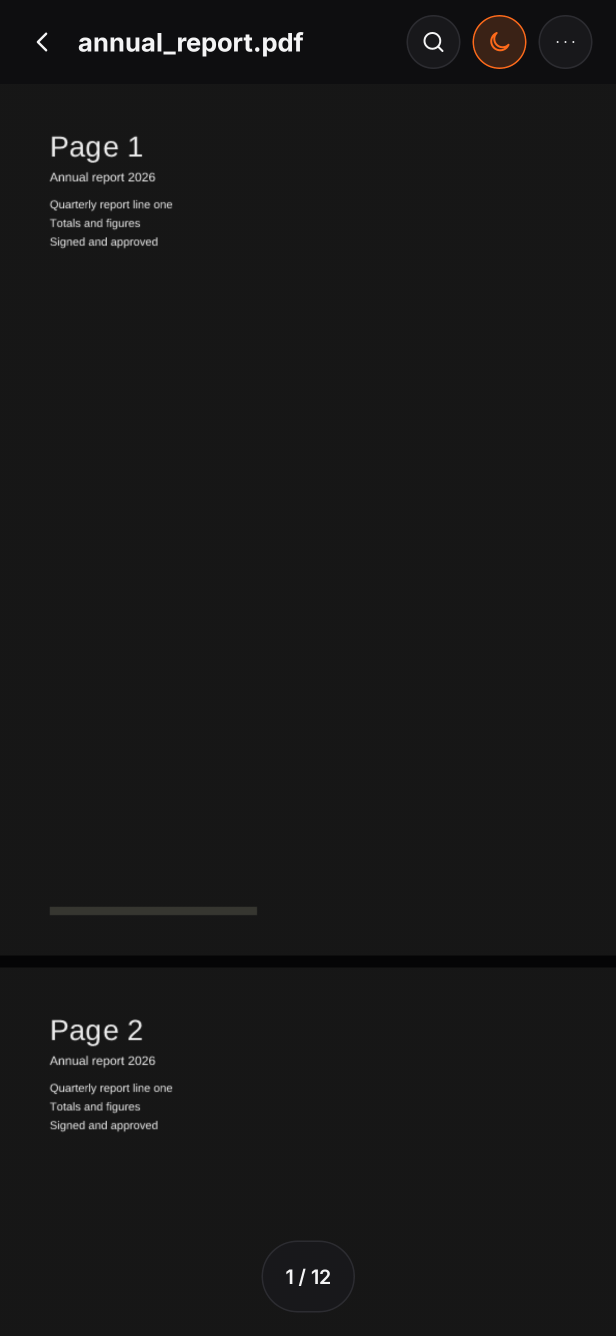
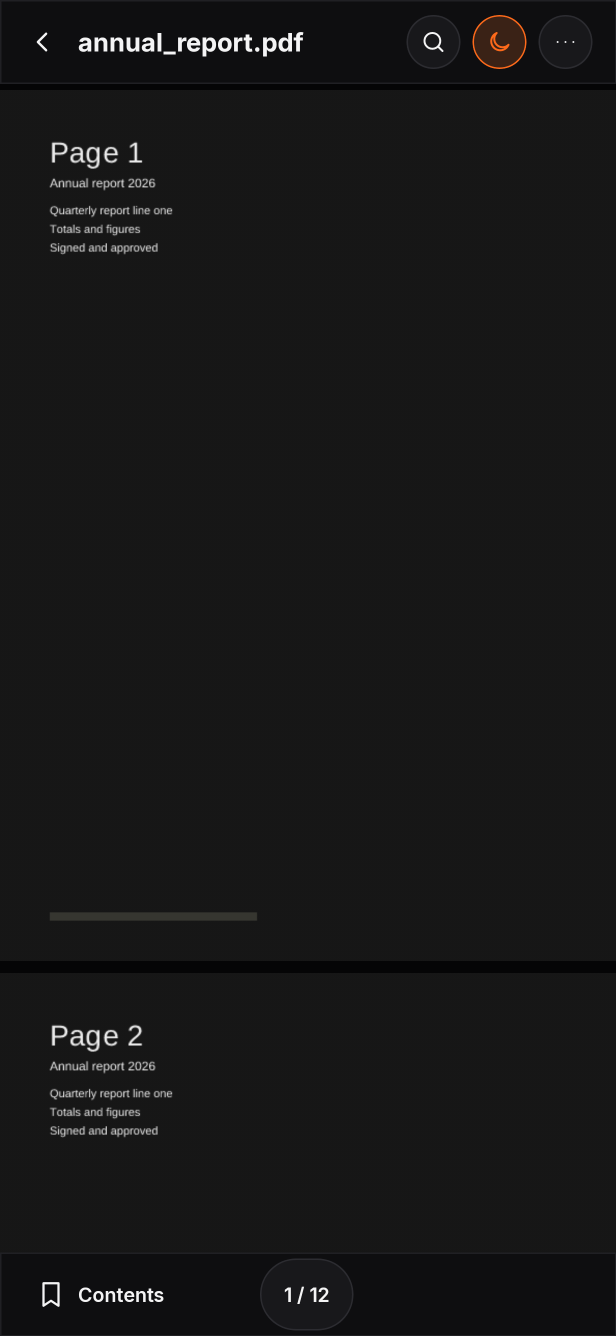
Viewer: top gutter, screenshots, tests for zoom/links, docs, tick roadmap 1B
Claude-Session: https://claude.ai/code/session_01QtjDEfUSeiytvFedJK5fax

diff --git a/app/src/test/java/com/namanbansal/forge/screenshots/ViewerScreenshotTest.kt b/app/src/test/java/com/namanbansal/forge/screenshots/ViewerScreenshotTest.kt
@@ -1,0 +1,159 @@
+package com.namanbansal.forge.screenshots
+
+import android.app.Application
+import android.net.Uri
+import androidx.compose.foundation.background
+import androidx.compose.foundation.border
+import androidx.compose.foundation.layout.Column
+import androidx.compose.foundation.layout.fillMaxWidth
+import androidx.compose.foundation.layout.padding
+import androidx.compose.foundation.layout.width
+import androidx.compose.ui.Modifier
+import androidx.compose.ui.test.junit4.createComposeRule
+import androidx.compose.ui.test.onNodeWithContentDescription
+import androidx.compose.ui.test.performClick
+import androidx.compose.ui.unit.dp
+import androidx.lifecycle.SavedStateHandle
+import androidx.test.core.app.ApplicationProvider
+import com.namanbansal.forge.core.DefaultViewer
+import com.namanbansal.forge.core.PdfBoxRasterizer
+import com.namanbansal.forge.core.PdfFixtures
+import com.namanbansal.forge.core.PickedFile
+import com.namanbansal.forge.core.pdf.PdfIntake
+import com.namanbansal.forge.core.pdf.viewer.OutlineItem
+import com.namanbansal.forge.core.pdf.viewer.TextSelection
+import com.namanbansal.forge.core.pdf.viewer.ViewerPosition
+import com.namanbansal.forge.data.ViewerPrefs
+import com.namanbansal.forge.tools.ToolHost
+import com.namanbansal.forge.tools.ToolRegistry
+import com.namanbansal.forge.tools.pdf.OutlinePanel
+import com.namanbansal.forge.tools.pdf.OutlineSheet
+import com.namanbansal.forge.tools.pdf.ViewerHome
+import com.namanbansal.forge.tools.pdf.ViewerMenuItems
+import com.namanbansal.forge.tools.pdf.ViewerScreen
+import com.namanbansal.forge.tools.pdf.ViewerViewModel
+import com.namanbansal.forge.ui.components.GroupLabel
+import com.namanbansal.forge.ui.screens.PdfViewerSettings
+import com.namanbansal.forge.ui.theme.ForgeTheme
+import com.tom_roush.pdfbox.android.PDFBoxResourceLoader
+import kotlinx.coroutines.runBlocking
+import org.junit.After
+import org.junit.Before
+import org.junit.Rule
+import org.junit.Test
+import org.junit.rules.TemporaryFolder
+import org.junit.runner.RunWith
+import org.robolectric.RobolectricTestRunner
+import org.robolectric.annotation.Config
+import org.robolectric.annotation.GraphicsMode
+import java.io.File
+
+@RunWith(RobolectricTestRunner::class)
+@GraphicsMode(GraphicsMode.Mode.NATIVE)
+@Config(qualifiers = PHONE_QUALIFIERS)
+class ViewerScreenshotTest {
+    @get:Rule val compose = createComposeRule()
+    @get:Rule val tmp = TemporaryFolder()
+    private val app: Application get() = ApplicationProvider.getApplicationContext()
+
+    @Before fun init() { PDFBoxResourceLoader.init(app); PdfBoxRasterizer.install() }
+    @After fun done() { PdfBoxRasterizer.uninstall() }
+
+    private fun host() = ToolHost(ToolRegistry.get("P40")!!, onBack = {})
+
+    private val lorem = listOf(
+        "Revenue grew 14 percent year on year, driven by subscriptions.",
+        "Operating costs were flat, which lifted margin to 21 percent.",
+        "The board approved the plan for the second half of the year.",
+        "See https://nbansal28.com for the full figures and notes.",
+    )
+
+    private fun reader(): ViewerViewModel {
+        val vm = ViewerViewModel(app, SavedStateHandle())
+        val f = PdfFixtures.withText(File(tmp.root, "annual_report.pdf"), 12, title = "Annual report 2026", body = { lorem }, uniqueHeights = false)
+        vm.onFilesPicked(listOf(PickedFile(Uri.fromFile(f), "annual_report.pdf", 5_100_000, "application/pdf")))
+        compose.pumpUntil { vm.source.value != null && vm.thumbnails.value != null && vm.aspects.value != null && vm.restored.value }
+        return vm
+    }
+
+    private val NOW = 1_765_000_000_000L
+    private val settle = { Thread.sleep(500); compose.waitForIdle() }
+
+    @Test fun home() {
+        val covers = File(tmp.root, "covers").apply { mkdirs() }
+        val names = listOf("Annual report 2026.pdf", "Lease agreement.pdf", "Boarding pass.pdf", "Thesis draft v3.pdf")
+        val recents = names.mapIndexed { i, n ->
+            val f = PdfFixtures.withText(File(tmp.root, "r$i.pdf"), 3, title = n.removeSuffix(".pdf"), uniqueHeights = false)
+            val bmp = runBlocking { PdfIntake.cover(f) }
+            File(covers, "k$i.jpg").outputStream().use { bmp!!.compress(android.graphics.Bitmap.CompressFormat.JPEG, 80, it) }
+            ViewerPosition("k$i", "content://x/$i", n, 1_000_000, listOf(12, 4, 1, 86)[i], listOf(3, 0, 0, 41)[i], 1f, NOW - i * listOf(3_600_000L, 86_400_000L, 3L * 86_400_000, 14L * 86_400_000)[i])
+        }
+        compose.shootBoth("viewer-home", settle = settle) {
+            ViewerHome("Viewer", recents, false, null, { File(covers, "${it.key}.jpg") }, {}, {}, {}, {}, {}, {}, now = NOW + 60_000)
+        }
+    }
+
+    @Test fun reading() {
+        val vm = reader()
+        compose.shootBoth("viewer-reading", settle = settle) { ViewerScreen(host(), vm) }
+    }
+
+    @Test fun immersive() {
+        val vm = reader()
+        compose.setThemed(false) { ViewerScreen(host(), vm) }
+        compose.waitForIdle()
+        compose.onNodeWithContentDescription("Page 1").performClick() // a tap on the page hides the bars
+        compose.mainClock.advanceTimeBy(900)
+        settle()
+        compose.captureShot("viewer-immersive-light")
+    }
+
+    @Test fun immersiveDark() {
+        val vm = reader()
+        compose.setThemed(true) { ViewerScreen(host(), vm) }
+        compose.waitForIdle()
+        compose.onNodeWithContentDescription("Page 1").performClick()
+        compose.mainClock.advanceTimeBy(900)
+        settle()
+        compose.captureShot("viewer-immersive-dark")
+    }
+
+    @Test fun selection() {
+        val vm = reader()
+        val t = runBlocking { vm.pageText(0)!! }
+        val i = t.text.indexOf("subscriptions")
+        val s = t.text.indexOf("Revenue")
+        vm.setSelection(TextSelection(0, s, i + "subscriptions".length - 1))
+        compose.pumpUntil { vm.selection.value != null }
+        compose.shootBoth("viewer-selection", settle = { Thread.sleep(700); compose.waitForIdle() }) { ViewerScreen(host(), vm) }
+    }
+
+    private val outline = listOf(
+        OutlineItem("Summary", 0, emptyList()),
+        OutlineItem("1. Results", 2, listOf(OutlineItem("1.1 Revenue", 2, emptyList()), OutlineItem("1.2 Margin", 3, emptyList()))),
+        OutlineItem("2. Outlook", 6, emptyList()),
+        OutlineItem("Appendix", 9, emptyList()),
+    )
+
+    @Test fun outlineLight() = outlineShot(false)
+    @Test fun outlineDark() = outlineShot(true)
+    private fun outlineShot(dark: Boolean) {
+        compose.shootDialog("viewer-outline", dark) { OutlineSheet({}) { OutlinePanel(outline, null, 12, 2, {}) } }
+    }
+
+    @Test fun settingsMenu() {
+        compose.shootBoth("viewer-settings-menu", settle = settle) {
+            Column(Modifier.padding(16.dp).width(300.dp).background(ForgeTheme.colors.surface).border(1.dp, ForgeTheme.colors.border)) {
+                ViewerMenuItems(ViewerPrefs(), {}, {})
+            }
+        }
+    }
+
+    @Test fun defaultViewerOther() = compose.shootBoth("settings-default-viewer-other", settle = settle) {
+        Column(Modifier.padding(16.dp)) { GroupLabel("PDF viewer"); PdfViewerSettings(DefaultViewer.Other("Drive PDF Viewer", "com.google.pdf"), true, {}, {}, {}) }
+    }
+
+    @Test fun defaultViewerForge() = compose.shootBoth("settings-default-viewer-forge", settle = settle) {
+        Column(Modifier.padding(16.dp)) { GroupLabel("PDF viewer"); PdfViewerSettings(DefaultViewer.Forge, true, {}, {}, {}) }
+    }
+}

diff --git a/app/src/test/java/com/namanbansal/forge/ui/ViewerRound1bTest.kt b/app/src/test/java/com/namanbansal/forge/ui/ViewerRound1bTest.kt
@@ -9,7 +9,10 @@ import androidx.compose.ui.test.hasText
 import androidx.compose.ui.test.junit4.createComposeRule
 import androidx.compose.ui.test.onNodeWithContentDescription
 import androidx.compose.ui.test.onNodeWithText
+import androidx.compose.ui.test.click
+import androidx.compose.ui.test.doubleClick
 import androidx.compose.ui.test.performClick
+import androidx.compose.ui.test.performTouchInput
 import androidx.lifecycle.SavedStateHandle
 import androidx.test.core.app.ApplicationProvider
 import com.namanbansal.forge.ForgeApp
@@ -183,6 +186,44 @@ class ViewerRound1bTest {
         pump { runCatching { compose.onNodeWithText("Pages").assertExists() }.isSuccess }
         compose.onNodeWithText("Bookmarks").performClick()
         pump { runCatching { compose.onNodeWithText("No bookmarks in this PDF").assertExists() }.isSuccess }
+    }
+
+    @Test fun doubleTapZoomsAndRendersSharpTiles() {
+        val vm = openViewer(3)
+        val tiles = vm.tiles.value!!
+        compose.onNodeWithContentDescription("Page 1").performTouchInput { doubleClick(center) }
+        pump { tiles.rendered > 0 }
+        assertTrue(tiles.cachedBytes() > 0)
+        assertEquals(2.5f, vm.zoom.value, 0.001f)
+        compose.onNodeWithContentDescription("Page 1").performTouchInput { doubleClick(center) } // and back to fit width
+        pump { vm.zoom.value == 1f }
+    }
+
+    @Test fun tappingAnExternalLinkAsksBeforeOpening() {
+        val f = File(tmp.root, "links.pdf")
+        com.tom_roush.pdfbox.pdmodel.PDDocument().use { d ->
+            d.addPage(com.tom_roush.pdfbox.pdmodel.PDPage(com.tom_roush.pdfbox.pdmodel.common.PDRectangle.A4))
+            val l = com.tom_roush.pdfbox.pdmodel.interactive.annotation.PDAnnotationLink().apply {
+                rectangle = com.tom_roush.pdfbox.pdmodel.common.PDRectangle(100f, 700f, 100f, 20f)
+                action = com.tom_roush.pdfbox.pdmodel.interactive.action.PDActionURI().apply { uri = "https://example.com/forge" }
+            }
+            d.getPage(0).annotations = listOf(l); d.save(f)
+        }
+        val vm = ViewerViewModel(app, SavedStateHandle())
+        compose.setContent { ForgeTheme { ViewerScreen(host(), vm) } }
+        vm.onFilesPicked(listOf(PickedFile(Uri.fromFile(f), "links.pdf", f.length(), "application/pdf")))
+        pump { vm.source.value != null && vm.restored.value && vm.aspects.value != null }
+        val found = runBlocking { vm.pageLinks(0) }
+        assertEquals("links: $found", 1, found.size)
+        compose.waitForIdle(); Thread.sleep(300); compose.waitForIdle()
+        // A4 at 1233 px wide: 2.07 px per point; the link centre is (150, 132 from the top) pt, below a 60 dp (180 px) gutter.
+        compose.onNodeWithContentDescription("Page 1").performTouchInput { click(androidx.compose.ui.geometry.Offset(150f * 2.07f, 132f * 2.07f)) }
+        compose.mainClock.advanceTimeBy(600) // a single tap is confirmed only after the double-tap window
+        compose.waitForIdle()
+        assertNotNull("flash after tap", vm.flash.value)
+        pump { runCatching { compose.onNodeWithText("Open this link?").assertExists() }.isSuccess }
+        compose.onNodeWithText("https://example.com/forge").assertExists()
+        compose.onNodeWithText("Cancel").performClick()
     }
 
     // ---- outline panel -----------------------------------------------------------------------------------------------

diff --git a/app/src/main/java/com/namanbansal/forge/core/pdf/viewer/SlotLayout.kt b/app/src/main/java/com/namanbansal/forge/core/pdf/viewer/SlotLayout.kt
@@ -19,9 +19,9 @@ object SlotLayout {
     /**
      * Sizes the pages of one slot. [viewportW]/[viewportH] are the unzoomed viewport; the content is [zoom] times wider.
      * Fit-width makes a single page as wide as the viewport (a spread splits the width); fit-page also keeps it within the
-     * viewport height. Pages are centred in the slot; the slot is at least [minHeight] tall (paged mode centres vertically).
+     * viewport height. [topInset] adds empty space above the pages (room for the top bar above the first page). Pages are centred in the slot; the slot is at least [minHeight] tall (paged mode centres vertically).
      */
-    fun compute(pages: IntRange, aspects: FloatArray?, viewportW: Int, viewportH: Int, zoom: Float, fitPage: Boolean, minHeight: Int = 0): SlotGeometry {
+    fun compute(pages: IntRange, aspects: FloatArray?, viewportW: Int, viewportH: Int, zoom: Float, fitPage: Boolean, minHeight: Int = 0, topInset: Int = 0): SlotGeometry {
         val n = pages.last - pages.first + 1
         val cell = viewportW.toFloat() / n
         val widths = pages.map { p ->
@@ -30,11 +30,11 @@ object SlotLayout {
             (base * zoom).toInt().coerceAtLeast(1)
         }
         val heights = pages.mapIndexed { i, p -> (widths[i] / (aspects?.getOrNull(p) ?: 0.707f).coerceAtLeast(0.05f)).toInt().coerceAtLeast(1) }
-        val slotH = maxOf(heights.max(), minHeight)
+        val slotH = maxOf(heights.max(), minHeight) + topInset
         val slotW = (viewportW * zoom).toInt()
         var x = ((slotW - widths.sum()) / 2).coerceAtLeast(0)
         val boxes = pages.mapIndexed { i, p ->
-            PageBox(p, x, (slotH - heights[i]) / 2, widths[i], heights[i]).also { x += widths[i] }
+            PageBox(p, x, topInset + (slotH - topInset - heights[i]) / 2, widths[i], heights[i]).also { x += widths[i] }
         }
         return SlotGeometry(slotH, boxes)
     }

diff --git a/app/src/main/java/com/namanbansal/forge/tools/pdf/ViewerPages.kt b/app/src/main/java/com/namanbansal/forge/tools/pdf/ViewerPages.kt
@@ -97,6 +97,7 @@ import kotlinx.coroutines.withTimeoutOrNull
 import kotlin.math.roundToInt
 
 const val MAX_ZOOM = 8f
+private val TOP_BAR_GUTTER = 60.dp
 private const val DOUBLE_TAP_ZOOM = 2.5f
 
 /** "Go to this page" asked by the chrome (page jump, outline, search hit); [nonce] makes repeated jumps to one page count. */
@@ -165,8 +166,10 @@ private fun PagesInner(
     val linkCache = remember { HashMap<Int, List<PageLink>>() }
 
     val aspectsRef = rememberUpdatedState(aspects)
+    // The first page of a continuous document starts below the top bar, so its first lines are readable with the bars shown.
+    val topInsetPx = with(density) { TOP_BAR_GUTTER.roundToPx() }
     fun geo(slot: Int, z: Float): SlotGeometry =
-        SlotLayout.compute(slots[slot], aspectsRef.value, vw, vh, z, fitPage, minHeight = if (paged) vh else 0)
+        SlotLayout.compute(slots[slot], aspectsRef.value, vw, vh, z, fitPage, minHeight = if (paged) vh else 0, topInset = if (!paged && slot == 0) topInsetPx else 0)
 
     // ---- current page, scrolling activity, jumps ------------------------------------------------------------------
     val currentSlot by remember {

diff --git a/app/src/main/java/com/namanbansal/forge/tools/pdf/ViewerScreen.kt b/app/src/main/java/com/namanbansal/forge/tools/pdf/ViewerScreen.kt
@@ -327,6 +327,7 @@ fun ViewerMenuItems(prefs: ViewerPrefs, onPrefs: ((ViewerPrefs) -> ViewerPrefs) 
     Text("Fit", style = ForgeType.Tiny, color = c.text2, modifier = Modifier.padding(horizontal = 16.dp, vertical = 6.dp))
     Choice("Fit width", !prefs.fitPage && !prefs.pageByPage) { it.copy(fitPage = false) }
     Choice("Fit page", prefs.fitPage || prefs.pageByPage) { it.copy(fitPage = true) }
+    Text("Reading", style = ForgeType.Tiny, color = c.text2, modifier = Modifier.padding(horizontal = 16.dp, vertical = 6.dp))
     Choice("Two pages side by side (landscape)", prefs.twoPageLandscape) { it.copy(twoPageLandscape = !it.twoPageLandscape) }
     Choice("Keep screen on", prefs.keepScreenOn) { it.copy(keepScreenOn = !it.keepScreenOn) }
     HorizontalDivider(color = c.border)

diff --git a/app/src/main/java/com/namanbansal/forge/tools/pdf/ViewerHome.kt b/app/src/main/java/com/namanbansal/forge/tools/pdf/ViewerHome.kt
@@ -96,7 +96,7 @@ fun ViewerHome(
                     Text("Report copies technical details (no file contents) so you can paste them in a message.", style = ForgeType.Tiny, color = c.text2)
                 }
             }
-            item("open") { ForgeButton("Open PDF", onOpenPdf, Modifier.fillMaxWidth(), icon = ForgeIcons.Open) }
+            item("open") { ForgeButton("Open PDF", onOpenPdf, Modifier.fillMaxWidth(), icon = ForgeIcons.Folder) }
             item("label") { GroupLabel("Recent") }
             if (recents.isEmpty()) item("empty") {
                 EmptyState(ForgeIcons.FileText, "No recent PDFs yet", "PDFs you read here, or open from other apps, show up in this list.")

diff --git a/docs/ADDING_A_TOOL.md b/docs/ADDING_A_TOOL.md
@@ -101,3 +101,13 @@ Anything that asks the user for pages should show them, not ask for page numbers
 `./gradlew recordRoborazziDebug --tests '*ScreenshotTest'` writes light/dark PNGs of every screen to `docs/screenshots/`
 (Roborazzi, Robolectric native graphics, 411x891dp). Plain `testDebugUnitTest` renders the same screens but writes nothing.
 Look at the PNGs after UI changes. Robolectric's PdfRenderer draws nothing, so tests swap in `PdfBoxRasterizer`.
+
+## The viewer (Round 1B)
+
+`tools/pdf/Viewer*.kt` is the app's PDF reader and the hub for Round 2 editing. Pieces worth reusing:
+- `core/pdf/viewer/TileRenderer` + `TileCache` + `TileMath`: sharp zoom. The UI says which tiles it wants (`setWanted`); one background thread renders them with `PageRasterizer.renderTile`, results sit in a byte-bounded LRU that never evicts visible tiles. `SlotLayout` sizes pages (single / spread, fit width / page) and is shared by scrolling, tiles and hit-testing.
+- `PdfDocIndex`: lazy per-page text boxes (`PageText`), link rectangles (`PageLink`) and the outline; all coordinates are fractions of the displayed page, so they are valid at any zoom and rotation.
+- `ViewerPositionStore` (recent list + last page/zoom per document, key = hash of the first 64 KB + size) and `ViewerPrefs` in `SettingsRepository` (global layout choices).
+- `DocumentWriter`: back up the original to `Downloads/Forge/Backups/`, overwrite it, verify, else save a copy. No UI yet; Round 2 calls it.
+- Layering for Round 2 modes: `ViewerPages(extraLayer = ...)` draws per page above the tiles and below selection handles; intercept `onTap` in the caller to take over gestures.
+- `DefaultPdfViewer` (Settings > "Make Forge your PDF viewer") detects which app opens PDFs and builds the App Info / test intents; the sample PDF is `assets/forge-sample.pdf`.

diff --git a/docs/ROADMAP.md b/docs/ROADMAP.md
@@ -18,12 +18,12 @@ Released: v0.1.121 — foundation, branding, Rotate, Merge, Split, Page manager,
 - [x] Default pins → Merge, Split, Viewer, Page manager (migrate users still on the old defaults)
 
 **1B. Viewer as default PDF app**
-- [ ] Sharp zoom (tiled hi-res rendering of the visible area)
-- [ ] Text select + copy, tappable links (external + internal), outline/bookmarks panel
-- [ ] Remember the last page per document; viewer home with recent PDFs
-- [ ] Fit-width, landscape two-page, page-by-page setting, dark pages
-- [ ] Settings → "Make Forge your PDF viewer" guided setup
-- [ ] Write-back infrastructure: detect a writable URI, back up the original, then overwrite (used in Round 2)
+- [x] Sharp zoom (tiled hi-res rendering of the visible area)
+- [x] Text select + copy, tappable links (external + internal), outline/bookmarks panel
+- [x] Remember the last page per document; viewer home with recent PDFs
+- [x] Fit-width, landscape two-page, page-by-page setting, dark pages
+- [x] Settings → "Make Forge your PDF viewer" guided setup
+- [x] Write-back infrastructure: detect a writable URI, back up the original, then overwrite (used in Round 2)
 
 ## Round 2 — Edit inside the viewer
 - [ ] Annotate: highlight, underline, strike, pen, notes (P17)
